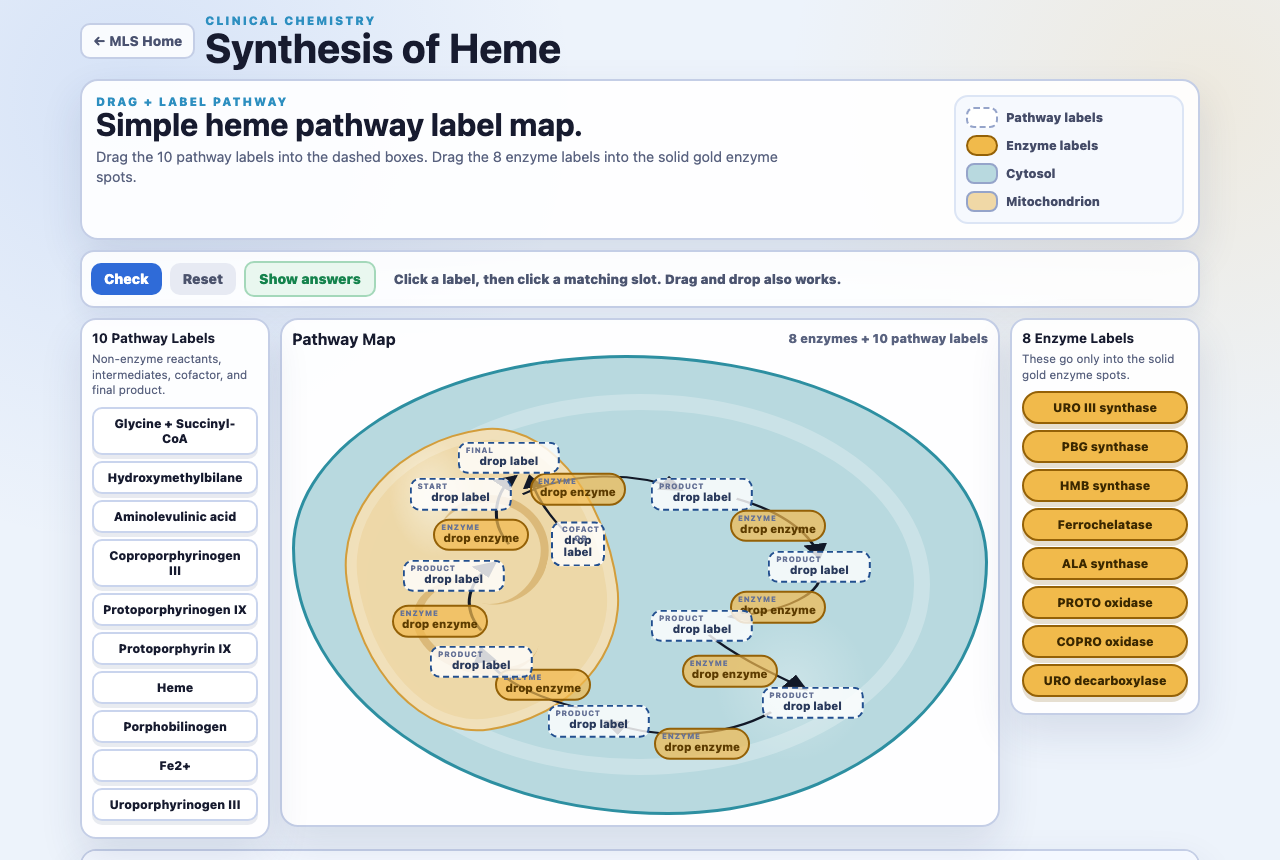
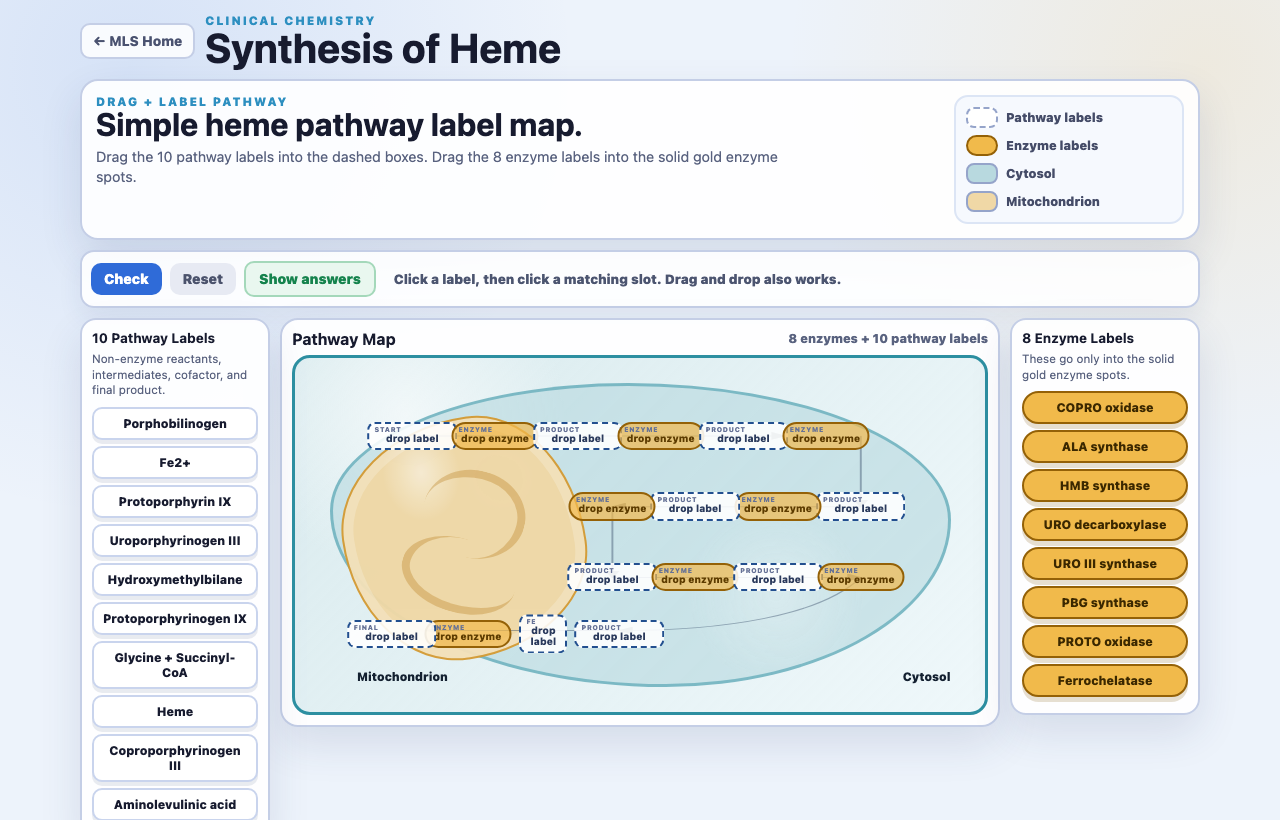
Simplify heme synthesis label map

diff --git a/Synthesis_of_Heme.html b/Synthesis_of_Heme.html
@@ -233,30 +233,33 @@ button{
 }
 .pathway-board{
   position:relative;
-  min-height:460px;
+  min-height:360px;
   border:3px solid var(--cytosol-line);
-  border-radius:48% 52% 46% 54% / 42% 45% 55% 58%;
+  border-radius:18px;
   overflow:hidden;
   background:
-    radial-gradient(circle at 30% 28%,rgba(255,255,255,.5),transparent 8%),
-    radial-gradient(circle at 72% 72%,rgba(255,255,255,.28),transparent 13%),
-    var(--cytosol);
+    radial-gradient(circle at 16% 16%,rgba(255,255,255,.6),transparent 10rem),
+    linear-gradient(135deg,rgba(184,217,223,.52),rgba(235,246,249,.82));
 }
 .pathway-board::before{
   content:"";
   position:absolute;
-  inset:8%;
-  border-radius:50%;
-  border:16px solid rgba(255,255,255,.25);
+  inset:7% 5%;
+  border-radius:48% 52% 46% 54% / 42% 45% 55% 58%;
+  border:3px solid rgba(45,143,161,.5);
+  background:
+    radial-gradient(circle at 28% 32%,rgba(255,255,255,.45),transparent 10%),
+    radial-gradient(circle at 72% 70%,rgba(255,255,255,.28),transparent 18%),
+    rgba(184,217,223,.64);
   pointer-events:none;
   z-index:0;
 }
 .mitochondrion{
   position:absolute;
-  left:7.5%;
-  top:16%;
-  width:39%;
-  height:66%;
+  left:7%;
+  top:17%;
+  width:35%;
+  height:68%;
   border:2px solid var(--mito-line);
   border-radius:58% 42% 55% 45% / 44% 58% 42% 56%;
   background:
@@ -295,11 +298,11 @@ button{
   position:absolute;
   z-index:2;
   font-weight:900;
-  font-size:.82rem;
+  font-size:.74rem;
   color:#142131;
 }
-.compartment.mito{left:8%;bottom:6%}
-.compartment.cyto{right:3.5%;bottom:3%}
+.compartment.mito{left:9%;bottom:8%}
+.compartment.cyto{right:5%;bottom:8%}
 .arrows{
   position:absolute;
   inset:0;
@@ -314,50 +317,50 @@ button{
   left:var(--x);
   top:var(--y);
   transform:translate(-50%,-50%);
-  width:clamp(84px,8vw,118px);
-  min-height:32px;
+  width:clamp(74px,7vw,104px);
+  min-height:28px;
   display:flex;
   align-items:center;
   justify-content:center;
   text-align:center;
-  padding:5px 7px;
+  padding:4px 6px;
   line-height:1.12;
   font-weight:850;
-  font-size:.7rem;
+  font-size:.62rem;
   cursor:pointer;
   overflow-wrap:anywhere;
 }
 .slot.step{
   border:2px dashed #224f8f;
-  border-radius:10px;
-  background:rgba(255,255,255,.82);
+  border-radius:8px;
+  background:rgba(255,255,255,.88);
   color:#2a3a5c;
 }
 .slot.enzyme{
-  width:clamp(78px,7.5vw,110px);
-  min-height:29px;
+  width:clamp(72px,6.8vw,98px);
+  min-height:26px;
   border:2px solid var(--enzyme-line);
   border-radius:999px;
   background:rgba(242,185,77,.7);
   color:#5d3c00;
 }
 .slot.cofactor{
-  width:54px;
-  min-height:32px;
-  border-radius:10px;
+  width:48px;
+  min-height:28px;
+  border-radius:8px;
 }
 .slot-label{
   position:absolute;
-  left:6px;
-  top:3px;
+  left:5px;
+  top:2px;
   color:#667296;
-  font-size:.48rem;
+  font-size:.42rem;
   letter-spacing:.08em;
   text-transform:uppercase;
 }
 .slot .value{
   display:block;
-  padding-top:6px;
+  padding-top:5px;
 }
 .slot.filled.step{
   border-style:solid;
@@ -397,48 +400,6 @@ button{
   40%{transform:translate(calc(-50% - 5px),-50%)}
   75%{transform:translate(calc(-50% + 5px),-50%)}
 }
-.chart{
-  margin-top:10px;
-  background:rgba(255,255,255,.94);
-  border:2px solid var(--line);
-  border-radius:16px;
-  overflow:hidden;
-  box-shadow:var(--shadow);
-}
-.chart h2{
-  margin:0;
-  padding:10px 12px;
-  background:#f4f8ff;
-  font-size:.95rem;
-}
-table{width:100%;border-collapse:collapse}
-th,td{
-  border-top:1px solid #dce5f5;
-  padding:7px 8px;
-  text-align:left;
-  vertical-align:top;
-}
-th{
-  color:#39415c;
-  font-size:.68rem;
-  text-transform:uppercase;
-  letter-spacing:.08em;
-  background:#f9fbff;
-}
-td{color:#252b40;font-weight:750}
-table{font-size:.82rem}
-.chart-chip{
-  display:inline-block;
-  padding:4px 8px;
-  border-radius:8px;
-  background:#eef4ff;
-  color:#23488f;
-  font-weight:900;
-}
-.chart-chip.enzyme{
-  background:#fff0cd;
-  color:#7a4c00;
-}
 .empty{color:#8a92ad;font-weight:800}
 @media (max-width:1120px){
   .hero{grid-template-columns:1fr}
@@ -457,16 +418,14 @@ table{font-size:.82rem}
   .hero{padding:12px;border-radius:16px}
   .cell-card{overflow-x:auto}
   .pathway-board{
-    min-width:680px;
-    min-height:430px;
+    min-width:640px;
+    min-height:360px;
   }
   .slot{
-    width:96px;
-    font-size:.64rem;
+    width:84px;
+    font-size:.58rem;
   }
-  .slot.enzyme{width:92px}
-  table{font-size:.74rem}
-  th,td{padding:8px}
+  .slot.enzyme{width:80px}
 }
 </style>
 </head>
@@ -523,15 +482,13 @@ table{font-size:.82rem}
               <path d="M0,0 L8,4 L0,8 Z" fill="#111827"></path>
             </marker>
           </defs>
-          <path d="M33 30 C40 25 49 25 56 29" stroke="#111827" stroke-width=".44" marker-end="url(#arrow)" fill="none"/>
-          <path d="M64 31 C71 34 75 39 76 44" stroke="#111827" stroke-width=".44" marker-end="url(#arrow)" fill="none"/>
-          <path d="M76 49 C75 53 70 56 63 57" stroke="#111827" stroke-width=".44" marker-end="url(#arrow)" fill="none"/>
-          <path d="M60 61 C64 66 70 70 74 73" stroke="#111827" stroke-width=".44" marker-end="url(#arrow)" fill="none"/>
-          <path d="M69 78 C62 84 52 84 45 80" stroke="#111827" stroke-width=".44" marker-end="url(#arrow)" fill="none"/>
-          <path d="M41 77 C33 74 28 69 27 64" stroke="#111827" stroke-width=".44" marker-end="url(#arrow)" fill="none"/>
-          <path d="M27 60 C24 55 25 49 29 45" stroke="#111827" stroke-width=".44" marker-end="url(#arrow)" fill="none"/>
-          <path d="M31 41 C28 36 29 29 32 26" stroke="#111827" stroke-width=".44" marker-end="url(#arrow)" fill="none"/>
-          <path d="M39 38 C37 35 35 31 34 26" stroke="#111827" stroke-width=".38" marker-end="url(#arrow)" fill="none"/>
+          <path d="M18 22 H71" stroke="#243858" stroke-width=".28" opacity=".38" marker-end="url(#arrow)" fill="none"/>
+          <path d="M82 22 V42" stroke="#243858" stroke-width=".28" opacity=".38" marker-end="url(#arrow)" fill="none"/>
+          <path d="M82 42 H46" stroke="#243858" stroke-width=".28" opacity=".38" marker-end="url(#arrow)" fill="none"/>
+          <path d="M46 42 V62" stroke="#243858" stroke-width=".28" opacity=".38" marker-end="url(#arrow)" fill="none"/>
+          <path d="M46 62 H82" stroke="#243858" stroke-width=".28" opacity=".38" marker-end="url(#arrow)" fill="none"/>
+          <path d="M82 62 C76 73 62 77 47 77" stroke="#243858" stroke-width=".28" opacity=".38" marker-end="url(#arrow)" fill="none"/>
+          <path d="M47 77 H19" stroke="#243858" stroke-width=".28" opacity=".38" marker-end="url(#arrow)" fill="none"/>
         </svg>
         <div id="slotLayer"></div>
       </div>
@@ -544,20 +501,6 @@ table{font-size:.82rem}
     </aside>
   </main>
 
-  <section class="chart">
-    <h2>Simple Pathway Chart</h2>
-    <table>
-      <thead>
-        <tr>
-          <th>Order</th>
-          <th>Compartment</th>
-          <th>Pathway Label</th>
-          <th>Enzyme Label</th>
-        </tr>
-      </thead>
-      <tbody id="chartBody"></tbody>
-    </table>
-  </section>
 </div>
 
 <script>
@@ -586,36 +529,24 @@ const ENZYME_LABELS = [
 ];
 
 const SLOTS = [
-  {id:"slot-s1", kind:"step", answer:"s1", label:"Start", compartment:"Mitochondrion", x:"24%", y:"30%"},
-  {id:"slot-e1", kind:"enzyme", answer:"e1", label:"Enzyme", compartment:"Mitochondrion", x:"41%", y:"29%"},
-  {id:"slot-s2", kind:"step", answer:"s2", label:"Product", compartment:"Cytosol", x:"59%", y:"30%"},
-  {id:"slot-e2", kind:"enzyme", answer:"e2", label:"Enzyme", compartment:"Cytosol", x:"70%", y:"37%"},
-  {id:"slot-s3", kind:"step", answer:"s3", label:"Product", compartment:"Cytosol", x:"76%", y:"46%"},
-  {id:"slot-e3", kind:"enzyme", answer:"e3", label:"Enzyme", compartment:"Cytosol", x:"70%", y:"55%"},
-  {id:"slot-s4", kind:"step", answer:"s4", label:"Product", compartment:"Cytosol", x:"59%", y:"59%"},
-  {id:"slot-e4", kind:"enzyme", answer:"e4", label:"Enzyme", compartment:"Cytosol", x:"63%", y:"69%"},
-  {id:"slot-s5", kind:"step", answer:"s5", label:"Product", compartment:"Cytosol", x:"75%", y:"76%"},
-  {id:"slot-e5", kind:"enzyme", answer:"e5", label:"Enzyme", compartment:"Cytosol", x:"59%", y:"85%"},
-  {id:"slot-s6", kind:"step", answer:"s6", label:"Product", compartment:"Cytosol", x:"44%", y:"80%"},
-  {id:"slot-e6", kind:"enzyme", answer:"e6", label:"Enzyme", compartment:"Mitochondrion", x:"36%", y:"72%"},
-  {id:"slot-s7", kind:"step", answer:"s7", label:"Product", compartment:"Mitochondrion", x:"27%", y:"67%"},
-  {id:"slot-e7", kind:"enzyme", answer:"e7", label:"Enzyme", compartment:"Mitochondrion", x:"21%", y:"58%"},
-  {id:"slot-s8", kind:"step", answer:"s8", label:"Product", compartment:"Mitochondrion", x:"23%", y:"48%"},
-  {id:"slot-e8", kind:"enzyme", answer:"e8", label:"Enzyme", compartment:"Mitochondrion", x:"27%", y:"39%"},
-  {id:"slot-s10", kind:"step", answer:"s10", label:"Cofactor", compartment:"Mitochondrion", x:"41%", y:"41%", extraClass:"cofactor"},
-  {id:"slot-s9", kind:"step", answer:"s9", label:"Final", compartment:"Mitochondrion", x:"31%", y:"22%"}
-];
-
-const CHART_ROWS = [
-  ["1","Mitochondrion","s1","e1"],
-  ["2","Cytosol","s2","e2"],
-  ["3","Cytosol","s3","e3"],
-  ["4","Cytosol","s4","e4"],
-  ["5","Cytosol","s5","e5"],
-  ["6","Cytosol to mitochondrion","s6","e6"],
-  ["7","Mitochondrion","s7","e7"],
-  ["8","Mitochondrion","s8","e8 + s10"],
-  ["9","Mitochondrion","s9","Final product"]
+  {id:"slot-s1", kind:"step", answer:"s1", label:"Start", compartment:"Mitochondrion", x:"17%", y:"22%"},
+  {id:"slot-e1", kind:"enzyme", answer:"e1", label:"Enzyme", compartment:"Mitochondrion", x:"29%", y:"22%"},
+  {id:"slot-s2", kind:"step", answer:"s2", label:"Product", compartment:"Cytosol", x:"41%", y:"22%"},
+  {id:"slot-e2", kind:"enzyme", answer:"e2", label:"Enzyme", compartment:"Cytosol", x:"53%", y:"22%"},
+  {id:"slot-s3", kind:"step", answer:"s3", label:"Product", compartment:"Cytosol", x:"65%", y:"22%"},
+  {id:"slot-e3", kind:"enzyme", answer:"e3", label:"Enzyme", compartment:"Cytosol", x:"77%", y:"22%"},
+  {id:"slot-s4", kind:"step", answer:"s4", label:"Product", compartment:"Cytosol", x:"82%", y:"42%"},
+  {id:"slot-e4", kind:"enzyme", answer:"e4", label:"Enzyme", compartment:"Cytosol", x:"70%", y:"42%"},
+  {id:"slot-s5", kind:"step", answer:"s5", label:"Product", compartment:"Cytosol", x:"58%", y:"42%"},
+  {id:"slot-e5", kind:"enzyme", answer:"e5", label:"Enzyme", compartment:"Cytosol", x:"46%", y:"42%"},
+  {id:"slot-s6", kind:"step", answer:"s6", label:"Product", compartment:"Cytosol", x:"46%", y:"62%"},
+  {id:"slot-e6", kind:"enzyme", answer:"e6", label:"Enzyme", compartment:"Mitochondrion", x:"58%", y:"62%"},
+  {id:"slot-s7", kind:"step", answer:"s7", label:"Product", compartment:"Mitochondrion", x:"70%", y:"62%"},
+  {id:"slot-e7", kind:"enzyme", answer:"e7", label:"Enzyme", compartment:"Mitochondrion", x:"82%", y:"62%"},
+  {id:"slot-s8", kind:"step", answer:"s8", label:"Product", compartment:"Mitochondrion", x:"47%", y:"78%"},
+  {id:"slot-s10", kind:"step", answer:"s10", label:"Fe", compartment:"Mitochondrion", x:"36%", y:"78%", extraClass:"cofactor"},
+  {id:"slot-e8", kind:"enzyme", answer:"e8", label:"Enzyme", compartment:"Mitochondrion", x:"25%", y:"78%"},
+  {id:"slot-s9", kind:"step", answer:"s9", label:"Final", compartment:"Mitochondrion", x:"14%", y:"78%"}
 ];
 
 const allLabels = [...STEP_LABELS.map(item => ({...item, kind:"step"})), ...ENZYME_LABELS.map(item => ({...item, kind:"enzyme"}))];
@@ -639,7 +570,6 @@ function shuffle(items){
 function render(){
   renderBanks();
   renderSlots();
-  renderChart();
 }
 
 function renderBanks(){
@@ -701,34 +631,6 @@ function renderSlots(){
       placeChip(slotEl.dataset.slot, event.dataTransfer.getData("text/plain"));
     });
   });
-}
-
-function renderChart(){
-  const body = document.getElementById("chartBody");
-  body.innerHTML = CHART_ROWS.map(row => {
-    const [order, compartment, stepId, enzymeId] = row;
-    const stepText = renderChartLabel(stepId, "step");
-    const enzymeText = enzymeId.includes("+")
-      ? enzymeId.split("+").map(id => renderChartLabel(id.trim(), id.trim().startsWith("e") ? "enzyme" : "step")).join(" ")
-      : renderChartLabel(enzymeId, enzymeId.startsWith("e") ? "enzyme" : "step");
-    return `<tr>
-      <td>${order}</td>
-      <td>${compartment}</td>
-      <td>${stepText}</td>
-      <td>${enzymeText}</td>
-    </tr>`;
-  }).join("");
-}
-
-function renderChartLabel(id, kind){
-  if(id === "Final product"){
-    return `<span class="empty">Final product</span>`;
-  }
-  const slot = SLOTS.find(item => item.answer === id);
-  const placed = slot && placements[slot.id];
-  const text = placed ? labelById.get(placed).label : "Drop on pathway map";
-  const className = placed ? `chart-chip ${kind === "enzyme" ? "enzyme" : ""}` : "empty";
-  return `<span class="${className}">${text}</span>`;
 }
 
 function selectChip(chipId){